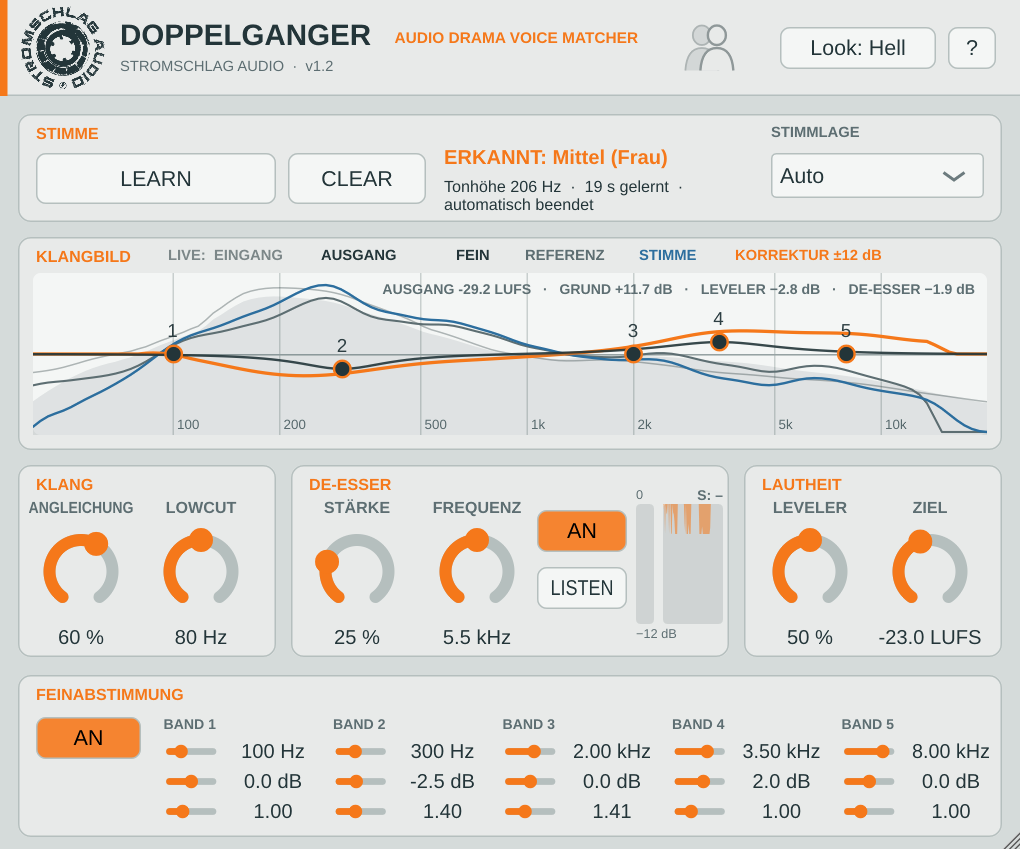
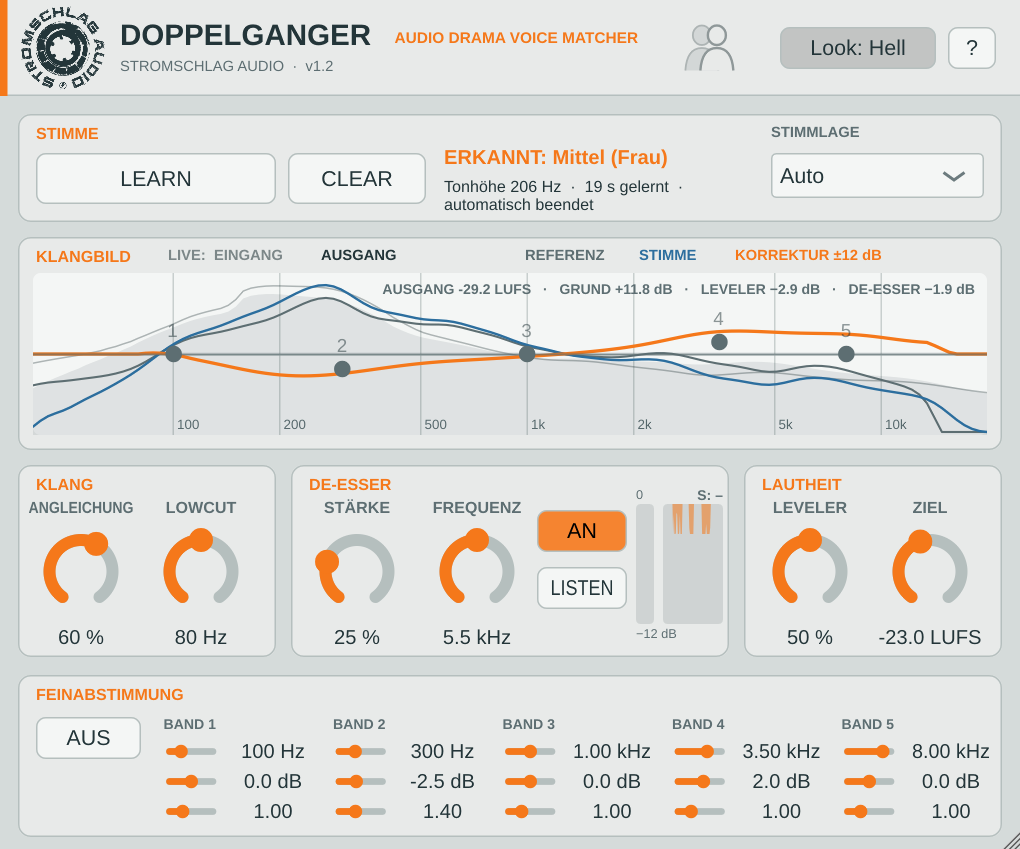
Doku und Hilfe zu 1.2: Zweck und Arbeitsweise ausfuehrlicher
- README: neuer Abschnitt "Was das Plugin macht" (Vorlagen aus einem
  Berliner Profi-Studio, Lernen, Angleichen, Signalweg, Feinabstimmung,
  wofuer gedacht und wofuer nicht); Einleitung und "Warum" erweitert.
  Kursiver Absatz bleibt direkt ueber der Unterschrift.
- Hilfe im Plugin: Einleitung und neuer Abschnitt "So arbeitet es".
- CHANGELOG und Release-Notizen 1.2 um die Korrekturen aus der
  EQ-Pruefung ergaenzt (Stabilitaet bei niedrigen Abtastraten,
  Ueberblendung, Raten-Wechsel, Bedienung).
- Oberflaechenbilder mit aktuellem Stand neu erzeugt.

Claude-Session: https://claude.ai/code/session_01N8U6G9oxczpbneQFWe5rRL

diff --git a/Source/PluginEditor.cpp b/Source/PluginEditor.cpp
@@ -42,9 +42,18 @@ static juce::AttributedString buildHelp (juce::Colour text, juce::Colour accent,
     s.append (u8 ("DOPPELGANGER – Hilfe") + u8 (" · v") + juce::String (PLUGIN_VERSION_TEXT) + "\n\n",
               juce::Font (juce::FontOptions (17.0f, juce::Font::bold)), accent);
 
-    body ("Doppelganger gleicht die Klangfarbe einer Sprecherspur an eine feste Referenzstimme an und bringt sie auf die "
-          "Ziel-Lautheit. Mikrofon und Raum der Aufnahme werden so an den Standard des Projekts angepasst. Lowcut, Match-EQ, "
-          "De-Esser und Leveler stecken in einem Plugin.");
+    body ("Doppelganger gleicht Sprecherspuren an neutrale Sprecherprofile aus einem Berliner Profi-Studio an und bringt sie auf die "
+          "Ziel-Lautheit. Takes aus verschiedenen Heimstudios, mit verschiedenen Mikrofonen und Räumen, klingen danach, als wären sie "
+          "in derselben Kabine aufgenommen worden. Lowcut, Angleich-EQ, Feinabstimmung, De-Esser und Leveler stecken in einem Plugin.");
+
+    head ("SO ARBEITET ES");
+    body ("Im Plugin stecken drei neutrale Vorlagen: eine tiefe Männerstimme, eine mittlere und eine hohe Frauenstimme. "
+          "Beim Lernen misst Doppelganger das Klangbild, die Tonhöhe und die Lautheit der Spur. Aus dem Unterschied zur Vorlage "
+          "entsteht eine geglättete Korrekturkurve. Angeglichen wird die Färbung von Mikrofon und Raum, nicht die Stimme selbst: "
+          "ein Bass bleibt ein Bass, eine helle Stimme bleibt hell.");
+    body ("Weg durchs Plugin: Lowcut, Angleich-EQ, Feinabstimmung, De-Esser, dann Grundverstärkung und Leveler. Latenzfrei.");
+    note ("Gedacht für Dialog in Hörspielen, Hörbüchern und Podcasts. Nicht für Gesang, Effektstimmen oder als Rauschunterdrückung: "
+          "Die Aufnahmen sollten sauber und trocken sein, Dereverb und Denoise gehören vor das Plugin.");
 
     head ("STIMME LERNEN");
     body ("„Learn“ drücken und die Spur abspielen. Das Plugin misst dabei Klangbild, Tonhöhe und Lautheit der Stimme. Es prüft selbst, ob das Klangbild "

diff --git a/README.md b/README.md
@@ -5,9 +5,10 @@
   <img src="docs/logo-hell.png" alt="Stromschlag Audio" height="64">
 </picture>
 
-VST3-Insert-Effekt für Hörspiel-Produktion. Er gleicht die Klangfarbe einer Sprecherspur an eine feste Referenzstimme
-an und bringt sie gleich auf die richtige Lautheit: Mikrofon und Raum werden auf den Standard des Projekts gebracht,
-ohne dass man jede Spur mit mehreren Plugins einzeln nachbearbeitet.
+VST3-Insert-Effekt für Hörspiel-Produktion. DOPPELGANGER gleicht Sprecherspuren an **neutrale Sprecherprofile aus
+einem Berliner Profi-Studio** an und bringt sie gleich auf die richtige Lautheit. Takes aus unterschiedlichen
+Heimstudios, mit unterschiedlichen Mikrofonen und Räumen klingen danach, als wären sie in derselben Kabine
+aufgenommen worden, ohne dass man jede Spur mit mehreren Plugins einzeln nachbearbeitet.
 
 **⬇ Download (Windows · VST3 · Mono/Stereo):** https://github.com/StromschlagProductions/Doppelganger-vst/releases/latest
 
@@ -19,13 +20,45 @@ Installation: ZIP entpacken und den Ordner `Doppelganger.vst3` nach `C:\Program 
 
 ## Warum es dieses Plugin gibt
 
-Bisher lag auf jeder Sprecherspur eine Kette aus Match-EQ, Leveler/Kompressor und De-Esser, jede Spur einzeln
-angeglichen an eine männliche oder weibliche Vorlage. DOPPELGANGER kennt diese Vorlagen fest und erledigt alles in
-einem Plugin: auf die Spur ziehen, einmal lernen lassen, fertig.
+In einem Hörspiel sprechen oft viele Sprecherinnen und Sprecher, die ihre Rollen zu Hause aufnehmen. Jede Aufnahme
+bringt ihr eigenes Mikrofon, ihren eigenen Raum und ihren eigenen Pegel mit: mal dumpf und nah, mal dünn und hallig,
+mal zu leise, mal mit scharfen S-Lauten. Stehen die Figuren dann in einer Szene nebeneinander, hört man sofort, dass
+sie nicht im selben Raum waren.
+
+Bisher lag deshalb auf jeder Sprecherspur eine Kette aus Match-EQ, Leveler/Kompressor und De-Esser, jede Spur einzeln
+an eine männliche oder weibliche Vorlage angeglichen. DOPPELGANGER hat diese Vorlagen fest eingebaut und erledigt
+alles in einem Plugin: auf die Spur ziehen, einmal lernen lassen, fertig.
 
 *DOPPELGANGER soll niemandem die Erfahrung abnehmen, eine Stimme selbst anzugleichen. Gerade am Anfang lehrt es viel, wenn man selbst hört, wie Mikrofon, Raum, Zischlaute und Lautheit zusammenspielen. Ich bin dankbar, dass ich diesen Weg selbst gegangen bin, auch wenn er manchmal umständlich und mühselig war. Gerade dadurch weiß ich, was ich mir von einem Werkzeug wünsche, das all das in einem vereint. DOPPELGANGER soll das Arbeiten und Lernen nicht ersetzen, sondern die technische Umsetzung im Alltag einfacher machen. Das Plugin ist auf meinen bevorzugten Klang für Sprecherstimmen bei Hörspielen ausgerichtet, so wie er mir gefällt und wie ich ihn ausgewogen finde. Ich habe ihn als Standard gesetzt.*
 
 – Lars Eickstädt, Stromschlag Audio
+
+## Was das Plugin macht
+
+**Die Vorlagen.** Im Plugin stecken drei neutrale Sprecherprofile, gemessen an Aufnahmen aus einem Berliner
+Profi-Studio: eine tiefe Männerstimme, eine mittlere und eine hohe Frauenstimme. Neutral heißt: sauber aufgenommen,
+ausgewogen, ohne Färbung durch Raum oder besonderes Mikrofon. So klingt eine Stimme, die man im Hörspiel gern hört.
+Gespeichert ist davon nur die Klangkurve, keine Aufnahme.
+
+**Das Lernen.** Beim Lernen hört DOPPELGANGER der Spur zu und misst drei Dinge: das mittlere Klangbild der Stimme
+(welche Frequenzen stark oder schwach sind), die Tonhöhe und die Lautheit. Pausen und Atmer zählen nicht mit. Aus der
+Tonhöhe wählt es die passende Vorlage.
+
+**Das Angleichen.** Aus dem Unterschied zwischen gelernter Stimme und Vorlage berechnet das Plugin eine
+Korrekturkurve und baut daraus einen EQ mit 26 Bändern. Die Kurve ist bewusst geglättet: Angeglichen wird die
+Färbung von Mikrofon und Raum, nicht die Stimme selbst. Ein Bass bleibt ein Bass, eine helle Stimme bleibt hell, sie
+klingen nur, als stünden sie vor demselben Mikrofon. Wie weit das geht, bestimmt der Regler **Angleichung**.
+
+**Der Weg durchs Plugin.** Lowcut → Angleich-EQ → Feinabstimmung → De-Esser → Grundverstärkung und Leveler.
+Am Ende steht die Spur auf der Ziel-Lautheit (Standard −23 LUFS), sanft geglättet und ohne harte S-Laute. Alles
+arbeitet latenzfrei und ab dem ersten Sample, egal wo die Wiedergabe startet.
+
+**Die Feinabstimmung.** Wer nach dem Angleich noch etwas nachschärfen möchte, schaltet fünf frei einstellbare
+Bänder zu, direkt im Klangbild oder über die Regler. Ein zusätzlicher EQ in der Slotkette ist dafür nicht nötig.
+
+**Wofür es gedacht ist:** Dialogspuren für Hörspiele, Hörbücher und Podcasts, die zusammen klingen sollen.
+Nicht gedacht ist es für Gesang, für Effektstimmen (Funk, Telefon, Monster) oder als Rauschunterdrückung: Saubere,
+trockene Aufnahmen bleiben die Voraussetzung. Dereverb und Denoise gehören vor das Plugin.
 
 ## Oberfläche
 
@@ -73,8 +106,9 @@ Tooltips an allen Reglern.
 
 ## Referenzen
 
-Die Zielkurven der drei Referenzstimmen sind fest im Plugin hinterlegt (`Source/ReferenceCurves.h`), die
-Audiodateien selbst werden nicht mitgeliefert. Erzeugt werden die Kurven mit:
+Die drei neutralen Sprecherprofile stammen aus Aufnahmen eines Berliner Profi-Studios (Tief/Mann, Mittel/Frau,
+Hoch/Frau). Fest im Plugin hinterlegt sind nur ihre Zielkurven (`Source/ReferenceCurves.h`), die Audiodateien selbst
+werden nicht mitgeliefert. Erzeugt werden die Kurven mit:
 
 ```
 python3 tools/make_reference_curves.py tief=MANN.wav mittel=FRAU1.wav hoch=FRAU2.wav
@@ -84,7 +118,7 @@ Die Referenzen enden bei ca. 16 kHz (Codec-Grenze). Darüber korrigiert das Plug
 
 ## Bauen und testen
 
-- Windows-VST3: Der Build mit Regressionstests und pluginval Level 8 läuft aus Kostengründen nicht bei jedem Commit, sondern von Hand (Actions > „Windows-VST3 bauen“ > Run workflow) und bei Pull Requests. Ein Release entsteht nur, wenn dabei „publish“ angehakt wird. Details: [CI-Konfiguration](docs/CI.md).
+- Windows-VST3: Der Build mit Regressionstests und pluginval Level 8 läuft nicht bei jedem Commit, sondern von Hand (Actions > „Windows-VST3 bauen“ > Run workflow) und bei Pull Requests. Ein Release entsteht nur, wenn dabei „publish“ angehakt wird. Details: [CI-Konfiguration](docs/CI.md).
 - Automatische DSP-/Transporttests ohne JUCE: `cmake -S . -B build/tests -DDOPPELGANGER_TESTS=ON`, danach `cmake --build build/tests` und `ctest --test-dir build/tests --output-on-failure`.
 - Prozessor-/State-/Editor-Tests zusammen mit dem VST3: `-DDOPPELGANGER_PLUGIN_TESTS=ON`.
 - Die bisherigen Dateitests `test_engine` und `test_learn` werden mitgebaut und mit einem synthetischen Signal automatisch ausgeführt.

diff --git a/docs/releases/1.2.md b/docs/releases/1.2.md
@@ -1,20 +1,24 @@
 # Doppelganger 1.2 – Feinabstimmung
 
-Doppelganger bekommt eine optionale Feinabstimmung mit fünf frei einstellbaren Bändern. Damit lässt sich das angeglichene Ergebnis im Plugin selbst nachschärfen, ohne einen weiteren EQ in die Slotkette zu legen. Die Anregung kam aus dem Beta-Test von Markus Hildebrandt (SOUNDJOB).
+Doppelganger gleicht Sprecherspuren an neutrale Sprecherprofile aus einem Berliner Profi-Studio an: Takes aus verschiedenen Heimstudios klingen danach, als wären sie in derselben Kabine aufgenommen worden, und landen gleich auf der Ziel-Lautheit.
+
+Mit Version 1.2 bekommt Doppelganger eine optionale Feinabstimmung mit fünf frei einstellbaren Bändern. Damit lässt sich das angeglichene Ergebnis im Plugin selbst nachschärfen, ohne einen weiteren EQ in die Slotkette zu legen. Die Anregung kam aus dem Beta-Test von Markus Hildebrandt (SOUNDJOB).
 
 ## Neu
 
 - **Fünf Bänder** nach dem Angleich: Frequenz 40 Hz bis 20 kHz, Verstärkung ±12 dB, Güte 0,3 bis 8. Standard: alle Bänder auf 0 dB, Feinabstimmung aus.
-- **Im Klangbild ziehen:** waagerecht die Frequenz, senkrecht die Verstärkung. Mausrad ändert die Güte, Doppelklick setzt auf 0 dB. Ziehen schaltet die Feinabstimmung ein. Die Regler in der neuen Karte **Feinabstimmung** stellen dieselben Werte als Zahl ein.
+- **Im Klangbild ziehen:** waagerecht die Frequenz, senkrecht die Verstärkung. Mausrad ändert die Güte, Doppelklick setzt auf 0 dB, Umschalt stellt feiner ein. Ein Tooltip zeigt die Werte des Bands. Ziehen schaltet die Feinabstimmung ein. Die Regler in der neuen Karte **Feinabstimmung** stellen dieselben Werte als Zahl ein.
 - **Lautheit bleibt:** Die Grundverstärkung rechnet die Feinabstimmung mit ein. Die Spur landet weiter auf der Ziel-Lautheit, der EQ ändert nur die Klangfarbe.
 - Alle Werte sind automatisierbar und werden mit dem Projekt gespeichert.
+- Änderungen an der Feinabstimmung werden weich überblendet; auch bei niedrigen Abtastraten bleiben alle Bänder stabil.
+- Hilfe und README erklären ausführlicher, was das Plugin macht und wofür es gedacht ist.
 - Kleine Korrektur: Die De-Esser-Anzeige zeigt im Ruhezustand wieder korrekt „S: –“.
 
 ## Kompatibilität und Prüfung
 
 Bestehende Projekte öffnen mit ausgeschalteter, flacher Feinabstimmung und klingen unverändert. Ist die Feinabstimmung aus oder stehen alle Bänder auf 0 dB, ist der Ausgang bitgleich mit Version 1.1.1. Das Plugin-Fenster ist um die neue Karte höher geworden.
 
-Geprüft unter Linux: alle DSP-, Lern- und Prozessortests, dazu neue Tests für die Feinabstimmung (bitgleich im Ruhezustand, +6 dB am Band ergeben +6 dB, Lautheitsausgleich, Speichern und Laden, ältere Projekte, Bedienung mit der Maus). Der Windows-Build läuft vor der Veröffentlichung wieder durch die Regressionstests und pluginval Level 8. Ein Hörtest in der eigenen DAW bleibt sinnvoll.
+Geprüft unter Linux: alle DSP-, Lern- und Prozessortests, dazu neue Tests für die Feinabstimmung (bitgleich im Ruhezustand, +6 dB am Band ergeben +6 dB, Lautheitsausgleich, Abtastraten von 22.050 bis 192.000 Hz, Überblendung, Speichern und Laden, ältere Projekte, Bedienung mit der Maus). Linux-pluginval Level 8 und Speicher-/Thread-Prüfungen (ASan, UBSan, TSan) bestanden. Einzelheiten im [Prüfbericht](https://github.com/StromschlagProductions/Doppelganger-vst/blob/main/docs/EQ_REVIEW_1.2.md). Der Windows-Build läuft vor der Veröffentlichung wieder durch die Regressionstests und pluginval Level 8. Ein Hörtest in der eigenen DAW bleibt sinnvoll.
 
 ## Download und Installation
 

diff --git a/CHANGELOG.md b/CHANGELOG.md
@@ -11,15 +11,22 @@ Neue optionale **Feinabstimmung**: fünf frei einstellbare Glockenfilter nach de
 - Die Grundverstärkung rechnet die Feinabstimmung mit ein: Die Spur bleibt auf der Ziel-Lautheit, der EQ ändert nur die Klangfarbe. Auf echten Sprachaufnahmen blieb der Ausgang dabei meist auf 0,1 dB genau, im ungünstigsten gemessenen Fall (±6 dB im Grundtonbereich einer Frauenstimme) auf 0,5 dB.
 - Alle 16 neuen Werte sind automatisierbar und werden mit dem Projekt gespeichert.
 
+- Bedienung im Klangbild: Umschalt beim Ziehen oder Mausrad stellt feiner ein, ein Tooltip zeigt Frequenz, Pegel und Güte des Bands. Ein Band springt beim Anklicken neben dem Punkt nicht mehr zum Mauszeiger, die Scrollrichtung des Systems wird beachtet.
+- Hilfe und README beschreiben ausführlicher, was das Plugin macht und wofür es gedacht ist: Angleichen an neutrale Sprecherprofile aus einem Berliner Profi-Studio.
+
 ### Behoben
 
+- Bei niedrigen Abtastraten (z. B. 22.050 Hz) konnte ein Feinabstimmungsband nahe 20 kHz instabil werden. Die Bandfrequenz ist jetzt auf 45 % der Abtastrate begrenzt, Audio, Anzeige und Lautheitsrechnung nutzen denselben Filterentwurf.
+- Nach einem Wechsel der Abtastrate rechnet die Feinabstimmung ihre Filter neu, auch wenn die Regler unverändert sind.
+- Änderungen an der Feinabstimmung und das Ein-/Ausschalten werden über 30 ms überblendet, statt hart umzuschalten.
+- Die Anzeige der Feinabstimmung rechnet mit der tatsächlichen Abtastrate statt fest mit 48 kHz.
 - Die De-Esser-Anzeige zeigte im Ruhezustand ein fehlerhaftes Zeichen statt „S: –“.
 
 ### Kompatibilität
 
 Die bisherigen neun Parameter-IDs, die Plugin-Kennung und das gespeicherte Format bleiben erhalten. Projekte aus älteren Versionen öffnen mit ausgeschalteter, flacher Feinabstimmung und klingen unverändert; ausgeschaltet oder mit allen Bändern auf 0 dB ist der Ausgang bitgleich mit 1.1.1. Das Fenster ist um die neue Karte höher geworden (Grundgröße 680 × 566 statt 680 × 450).
 
-[Release-Hinweise](docs/releases/1.2.md)
+[Release-Hinweise](docs/releases/1.2.md) · [Prüfbericht Feinabstimmung](docs/EQ_REVIEW_1.2.md)
 
 ## 1.1.1 – 15. November 2026
 
